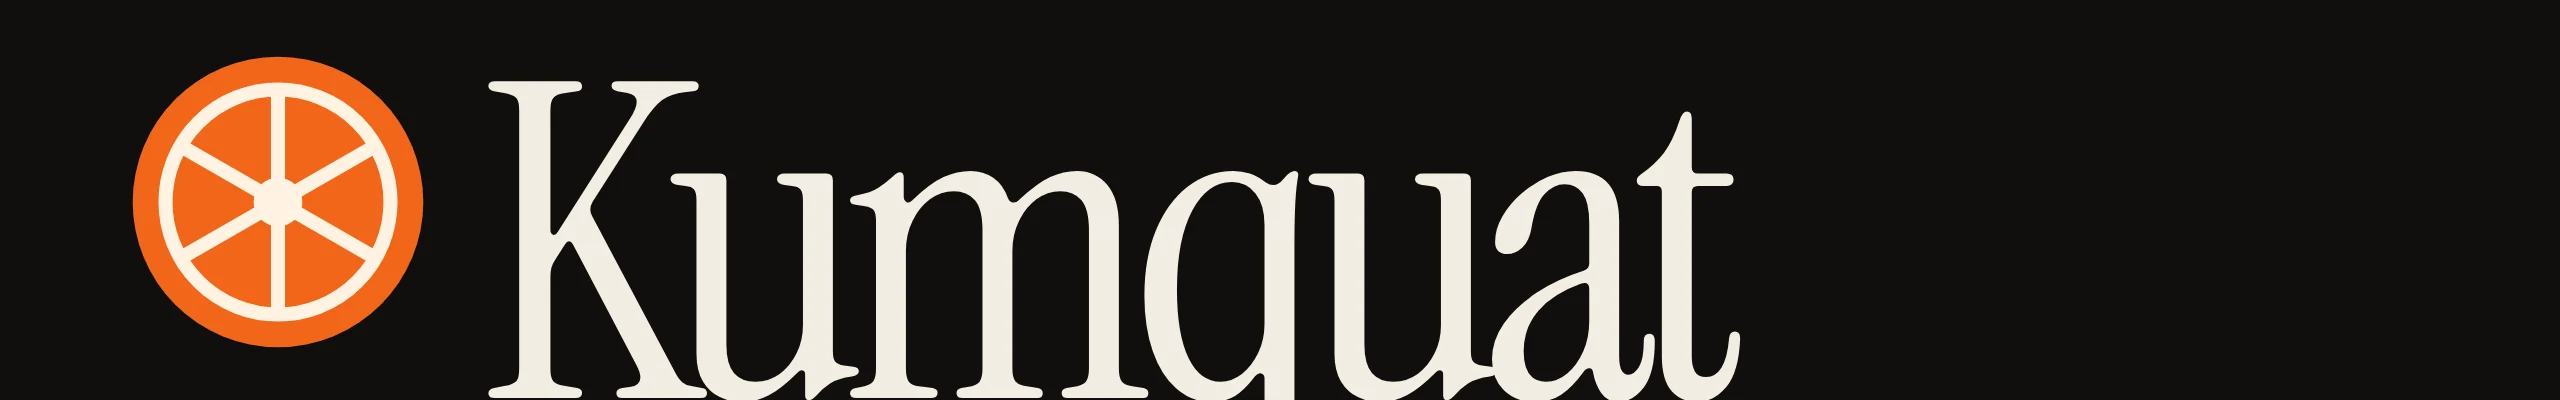
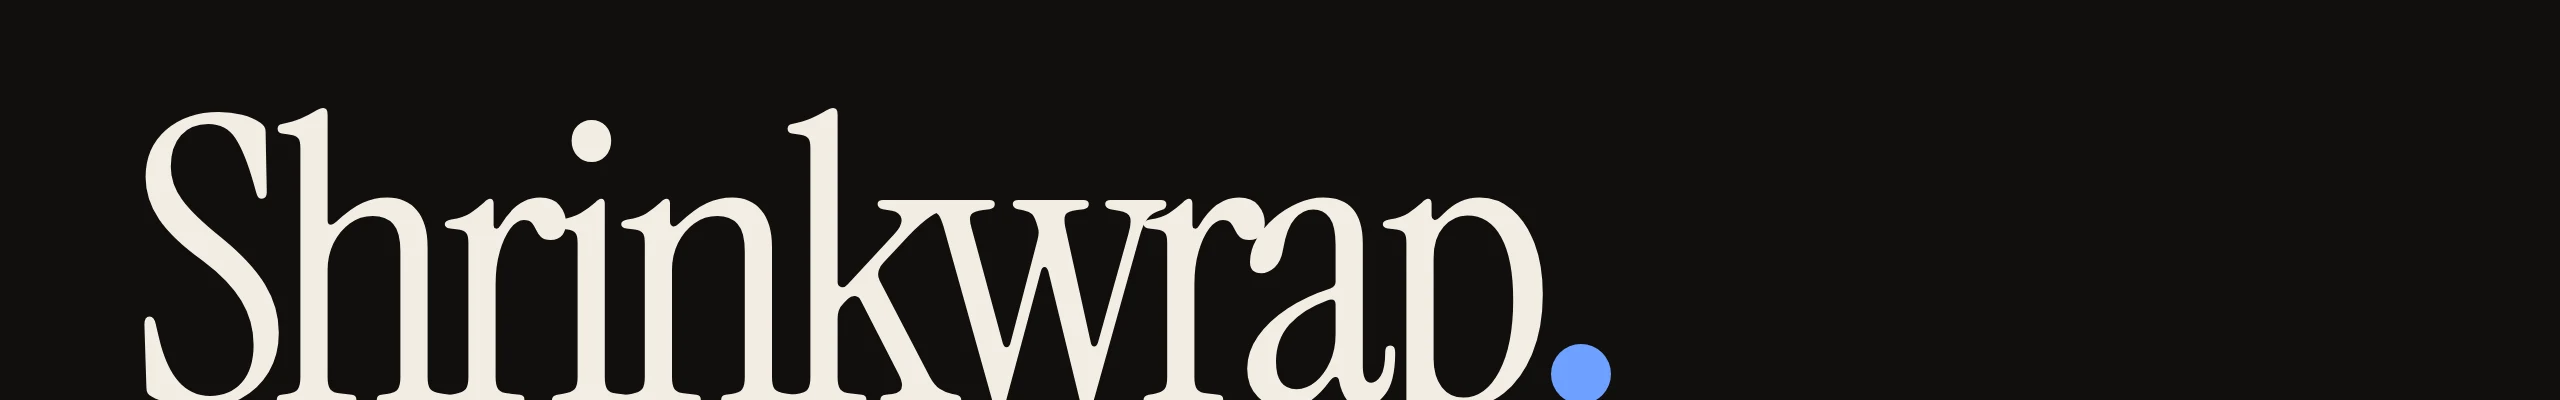
README·디자인 문서·OG·README 이미지를 새 이름으로 갱신

Changed region(s): [[0.0312, 0.12, 0.6875, 1.0]]

diff --git a/README.md b/README.md
@@ -1,17 +1,17 @@
 <a href="https://bbdyno.github.io/Kumquat-Page/en/">
   <picture>
     <source media="(prefers-color-scheme: dark)" srcset=".github/readme/hero-en-dark.webp">
-    <img src=".github/readme/hero-en-light.webp" alt="Kumquat. Drag, tap Shift, drop. A file converter and optimizer for Mac." width="100%">
+    <img src=".github/readme/hero-en-light.webp" alt="Shrinkwrap. Sized to fit where it’s going. Fit files to email, chat and form uploads on your Mac." width="100%">
   </picture>
 </a>
 
 <p align="center">
-  <a href="https://bbdyno.github.io/Kumquat-Page/"><img src="https://img.shields.io/badge/site-bbdyno.github.io%2FKumquat--Page-E8590C?style=for-the-badge&labelColor=171411" alt="Site"></a>
+  <a href="https://bbdyno.github.io/Kumquat-Page/"><img src="https://img.shields.io/badge/site-bbdyno.github.io%2FKumquat--Page-2B63D9?style=for-the-badge&labelColor=171411" alt="Site"></a>
   <a href="https://github.com/bbdyno/Kumquat-Page/actions/workflows/deploy.yml"><img src="https://img.shields.io/github/actions/workflow/status/bbdyno/Kumquat-Page/deploy.yml?branch=main&style=for-the-badge&labelColor=171411&label=pages" alt="Deploy status"></a>
-  <img src="https://img.shields.io/badge/npm%20dependencies-0-E8590C?style=for-the-badge&labelColor=171411" alt="Zero npm dependencies">
-  <img src="https://img.shields.io/badge/trackers-none-E8590C?style=for-the-badge&labelColor=171411" alt="No trackers">
-  <img src="https://img.shields.io/badge/node-20%2B-E8590C?style=for-the-badge&labelColor=171411&logo=nodedotjs&logoColor=white" alt="Node 20+">
-  <a href="LICENSE"><img src="https://img.shields.io/github/license/bbdyno/Kumquat-Page?style=for-the-badge&labelColor=171411&color=E8590C" alt="License"></a>
+  <img src="https://img.shields.io/badge/npm%20dependencies-0-2B63D9?style=for-the-badge&labelColor=171411" alt="Zero npm dependencies">
+  <img src="https://img.shields.io/badge/trackers-none-2B63D9?style=for-the-badge&labelColor=171411" alt="No trackers">
+  <img src="https://img.shields.io/badge/node-20%2B-2B63D9?style=for-the-badge&labelColor=171411&logo=nodedotjs&logoColor=white" alt="Node 20+">
+  <a href="LICENSE"><img src="https://img.shields.io/github/license/bbdyno/Kumquat-Page?style=for-the-badge&labelColor=171411&color=2B63D9" alt="License"></a>
 </p>
 
 <p align="center">
@@ -23,12 +23,12 @@
   <a href="https://bbdyno.github.io/Kumquat-Page/en/changelog/">Changelog</a>
 </p>
 
-<img src=".github/readme/band-en.webp" alt="10 first files with every feature free · 0 uploads and data collected · macOS 12 and up on Intel and Apple silicon · 5 free basic conversions a day" width="100%">
+<img src=".github/readme/band-en.webp" alt="7 destinations · 10 first files with every feature free · 0 uploads and data collected · macOS 12 and up on Intel and Apple silicon" width="100%">
 
-Marketing, legal, support and upload-guide pages for **Kumquat**, a macOS file converter. Korean is the default at the site root; English lives under `/en/`. Downloads are App Store campaign links only.
+Marketing, legal, support and upload-guide pages for **Shrinkwrap** (슈링크랩), a macOS app that fits files to where they’re going: email attachments, messengers, online forms, photo uploads and more. Korean is the default at the site root; English lives under `/en/`. Downloads are App Store campaign links only.
 
 > [!NOTE]
-> Kumquat 1.0.0 was submitted to the Mac App Store on 2026-10-20 and is in review. The App Store links start working once the app is public.
+> The app was renamed from its working title to Shrinkwrap on 2026-10-27 after App Review feedback (see `docs/REBRAND.md` in the app repo). Only user-facing names changed: this repository, the site URL (`/Kumquat-Page/`), the bundle ID and the App Store app ID stay the same. The App Store links start working once the app is public.
 
 ## The site
 
@@ -60,15 +60,15 @@ The screenshots follow your GitHub theme, the same way the site follows your sys
 | **Stack** | No framework and no npm dependencies. Page modules in `src/pages/` are rendered by `build.mjs` (Node 20+) into `dist/`. |
 | **Privacy** | No trackers, no cookies, no third-party font requests. |
 | **Type** | Instrument Serif and Noto Serif KR, self-hosted subsets in `public/assets/fonts/` (both OFL, licenses alongside). |
-| **Script** | One file, `assets/site.js` (theme toggle, scroll demo, before/after slider, format search). Every page works without it. |
-| **Design** | The visual direction and the Pinterest references it came from are in [`DESIGN.md`](DESIGN.md). |
+| **Script** | One file, `assets/site.js` (theme toggle, scroll demo, format search). Every page works without it. |
+| **Design** | The visual direction and the Pinterest references it came from are in [`DESIGN.md`](DESIGN.md). Accent: film blue `#2B63D9` (dark `#6EA0FF`). |
 
 ## Commands
 
 ```bash
 npm run build     # src/ + public/ → dist/ (also writes sitemap.xml and robots.txt)
 npm run preview   # build, then serve dist/ at http://localhost:4321/Kumquat-Page/
-npm run og        # re-render the placeholder OG images with headless Chrome
+npm run og        # re-render the OG images (wrapped-parcel art) with headless Chrome
 npm run readme-art # re-render the README banner, band, footer and site screenshots (needs cwebp)
 npm run fonts     # re-subset the serif fonts after heading copy changes (needs: pip install fonttools brotli)
 ```
@@ -77,7 +77,7 @@ Run `npm run build` before `npm run fonts`: the subsetter reads the Korean headi
 
 The preview server mounts the site under the same base path GitHub Pages uses, so relative links and `404.html` behave like production.
 
-`npm run readme-art` writes `.github/readme/*.webp`. Run `npm run build` first, because the site screenshots are taken from `dist/`. The Korean banner, band and footer are also used by the Kumquat app repo's README; copy `hero-ko-*.webp`, `band-ko.webp` and `footer-*.webp` to `Kumquat/.github/readme/` after re-rendering. The English banner uses the app's English captures in `.github/readme/src/` (from `Kumquat/AppStore/captures`).
+`npm run readme-art` writes `.github/readme/*.webp`. Run `npm run build` first, because the site screenshots are taken from `dist/`. The Korean banner, band and footer are also used by the app repo's README; copy `hero-ko-*.webp`, `band-ko.webp` and `footer-*.webp` to the app repo's `.github/readme/` after re-rendering. The English banner uses the app's English result-card capture in `.github/readme/src/` (from the app repo's `AppStore/captures`); it still shows the pre-rebrand UI.
 
 ## Pages
 
@@ -90,8 +90,9 @@ The preview server mounts the site under the same base path GitHub Pages uses, s
 | Press kit | `/press/` | `/en/press/` | `13-press.mjs` |
 | Changelog | `/changelog/` | `/en/changelog/` | `14-changelog.mjs` |
 | Guides index | `/guides/` | — | `20-guides.mjs` |
-| Hometax attachment size | `/guides/hometax-attachment-size/` | — | `21-guide-hometax.mjs` |
-| Gov24 ID photo | `/guides/gov24-id-photo/` | — | `22-guide-gov24-photo.mjs` |
+| Hometax attachment size (Online forms destination) | `/guides/hometax-attachment-size/` | — | `21-guide-hometax.mjs` |
+| Gov24 ID photo (Photo upload destination) | `/guides/gov24-id-photo/` | — | `22-guide-gov24-photo.mjs` |
+| Open source | `/opensource/` | `/en/opensource/` | `15-opensource.mjs` |
 | 404 | `/404.html` | — | `99-404.mjs` |
 
 Shared header, footer, `<head>` tags (canonical, hreflang, Open Graph) and building blocks are in `src/layout.mjs`. Site settings, prices and the App Store link builder are in `src/config.mjs`. The format table is generated from `src/data/formats.mjs`.
@@ -104,15 +105,15 @@ To add a guide: copy a guide module, give it a new `path`, and add it to `src/pa
 
 ## TODO before launch
 
-1. **App Store link.** `APP_ID` is `id6824821095` (1.0.0 submitted for review 2026-10-20). Links carry `mt=12` and a per-CTA `ct` campaign value (`home-hero`, `guide-hometax`, …); the provider token `pt` is left out until it is confirmed in App Store Connect. After approval, change the “출시 준비 중 / Coming soon” chip and the “in review” notes in `00-home.mjs`.
+1. **App Store link.** `APP_ID` is `id6824821095`. Links carry `mt=12` and a per-CTA `ct` campaign value (`home-hero`, `guide-hometax`, …); the provider token `pt` is left out until it is confirmed in App Store Connect. After approval, change the “출시 준비 중 / Coming soon” chip and the “in review” notes in `00-home.mjs`.
 2. **Support email.** `site.email` is `della.kimko@gmail.com`, the same support and ad-report address the app uses.
 3. **Site URL.** `site.url` assumes `https://bbdyno.github.io/Kumquat-Page/`. Change it if a custom domain is used; canonical, hreflang, OG and sitemap URLs follow it.
 4. **Legal review.** Privacy Policy and Terms are marked as drafts on the page. Set the effective dates (operator: bbdyno, 서울특별시 구로구, in `src/config.mjs`). The app uses Apple's Standard EULA as is (no custom EULA in App Store Connect), so the Terms only summarise it in §3 and must not restate license, warranty, liability or governing-law terms differently.
-5. **Guide facts.** Both guides tell readers to follow the limits shown on the upload screen. Confirm Hometax size limits and Gov24 photo file requirements, then add them with the date checked (see the TODO comments in each module).
-6. **Comparison table.** Tangerine facts were checked on 2026-10-20 (build 2.0.2). Re-check before publishing and after their updates; keep the date in `site.factsDate` current.
-7. **Placeholders.** App screens are real captures from the Kumquat repo (`docs/screens/`, development build 2026-10-20; `main-light` is the stats page and `main-dark` the history list, which only exists as a dark capture for now), converted to WebP in `public/assets/shots/` with light and dark versions; refresh them when the UI changes. Recipes, destinations, AI and HWP are labeled as planned (1.1–1.3) everywhere; drop the labels as each ships. No placeholder boxes or annotation labels remain on the site; facts a reader needs (demo data, comparison images) are plain captions.
-8. **App 1.0 scope.** Copy only presents what app 1.0 ships (wheel, menu bar drop, Finder Services, Shortcuts, main window with history and stats, conversions, target size 2 MB/1 MB and 10/25 MB for video, crop and rotate, copy as PNG/JPG, image quality setting, QR reading). Recipes, folder watching, destinations and presets, on-device AI, HWP, notch shelf, clipboard automation and the originals vault are labeled as planned. App Review can reject an app whose site or metadata promises more than it does.
-9. **Prices and free tier.** Prices mirror `Kumquat/docs/PLAN.md` §2. Free tier (decided 2026-10-20): every feature for the first `welcomeTrialFiles` (10) files, then `freeDailyFiles` (5) basic conversions a day, with ads; Pro has no limits and no ads. Both numbers live in `src/config.mjs`; the landing, terms, privacy, press and Hometax guide copy follow them.
+5. **Guide facts.** Both guides tell readers to follow the limits shown on the upload screen and say that Shrinkwrap's destination defaults (Online forms 5 MB, Photo upload 500 KB) are not official limits. Confirm Hometax size limits and Gov24 photo file requirements, then add them with the date checked (see the TODO comments in each module).
+6. **New captures.** Every file in `public/assets/shots/` still shows the pre-rebrand UI (old name, orange accent). Recapture from the Shrinkwrap build and drop them in under the same names; the list and intended content are in the comment above `shotSizes` in `src/layout.mjs`. The old app icon, welcome screen, drag-shortcut captures and promo video were removed; add the new app icon as `assets/img/app-icon.webp` and `app-icon-1024.png` and put it back in the press kit and final CTA (see the TODO in `13-press.mjs`).
+7. **App 1.0 scope.** Copy presents destinations (Email attachment 20 MB total split by file size, Messenger 25 MB, Small upload 10 MB, Online forms 5 MB, Photo upload 500 KB, Web images 500 KB WebP, Custom), the quality guard, text-preserving PDF compression, sending results to a new Mail message or Share, menu bar drop, Finder Quick Actions, Shortcuts, format conversions, history and stats. Recipes, folder watching, automatic destination detection, on-device AI and HWP are labeled as planned (changelog only). The optional drag shortcut (off by default in the app) is not marketed anywhere. App Review can reject an app whose site or metadata promises more than it does.
+8. **Prices and free tier.** Free: every feature for the first `welcomeTrialFiles` (10) files, then `freeDailyFiles` (5) basic conversions a day, with ads; destinations are Pro. Pro Lifetime $19.99 launch ($24.99 regular), Pro Yearly $11.99 with a 7-day trial. Both numbers live in `src/config.mjs`; the landing, terms, privacy, press and guide copy follow them.
+9. **Fonts.** Run `npm run fonts` after the copy changes so new Korean heading glyphs are in the Noto Serif KR subset.
 
 ## Sponsor ad list
 
@@ -128,29 +129,9 @@ The app downloads `/ads/v1.json` (source: `public/ads/v1.json`) about once a day
 }
 ```
 
-An empty `ads` array means no sponsors; the app then shows its own Kumquat Pro note. Update `updated` whenever the list changes.
-
-## Promo video
-
-The Korean landing page shows the app's promo motion graphic in “작동 방식” (the English page keeps the interactive demo). Source: `Kumquat/AppStore/promo/kumquat-promo-ko.mp4` (1080×1920, 17.5 s, no audio). The site copy is a 720×1280 re-encode plus a poster frame:
-
-```bash
-ffmpeg -i kumquat-promo-ko.mp4 -an -vf scale=720:1280:flags=lanczos -c:v libx264 -profile:v high -preset slow -crf 23 -pix_fmt yuv420p -movflags +faststart public/assets/video/promo-ko-720.mp4
-```
-
-It is muted, plays only while on screen, has a pause button, and does not autoplay for visitors who prefer reduced motion.
+An empty `ads` array means no sponsors; the app then shows its own Shrinkwrap Pro note. Update `updated` whenever the list changes.
 
 ## Credits
-
-Photos (Unsplash License, free for commercial use; credited as a courtesy):
-
-| File | Unsplash photo | Photographer |
-| --- | --- | --- |
-| `assets/img/hero-kumquats.webp`, OG images | [4rWiSnmX9uY](https://unsplash.com/photos/a-group-of-oranges-4rWiSnmX9uY) | @rens23 |
-| `assets/img/ai-bg-before.webp`, `ai-bg-after.webp` | [bcrmOZjw_V8](https://unsplash.com/photos/yellow-round-fruit-on-brown-plant-pot-bcrmOZjw_V8) | Gabriel Miklós (@gebgramm) |
-| `assets/img/ai-up-before.webp`, `ai-up-after.webp` | [_qQRpA_HnaI](https://unsplash.com/photos/a-bowl-filled-with-oranges-on-top-of-a-wooden-table-_qQRpA_HnaI) | Joanna Stołowicz (@joanna_stolowicz) |
-
-`ai-bg-after.webp` is a real background-removal result made on this Mac with Apple Vision (`VNGenerateForegroundInstanceMaskRequest`), the framework the app uses. `ai-up-before.webp` is the same crop reduced to 1/5 and enlarged again, to show the difference upscaling targets; it is labeled as a comparison, not as app output.
 
 Icons: [Phosphor Icons](https://phosphoricons.com) Light, MIT (`licenses/phosphor-icons-MIT.txt`), inlined by `src/icons.mjs`. Fonts: Instrument Serif and Noto Serif KR, SIL OFL 1.1 (`licenses/`).
 
@@ -159,6 +140,6 @@ Icons: [Phosphor Icons](https://phosphoricons.com) Light, MIT (`licenses/phospho
 <p align="center">
   <picture>
     <source media="(prefers-color-scheme: dark)" srcset=".github/readme/footer-dark.webp">
-    <img src=".github/readme/footer-light.webp" alt="Kumquat" width="100%">
+    <img src=".github/readme/footer-light.webp" alt="Shrinkwrap" width="100%">
   </picture>
 </p>

diff --git a/DESIGN.md b/DESIGN.md
@@ -1,22 +1,29 @@
 # Design direction
 
-Chosen on 2026-10-20 after reviewing about 140 Pinterest results (searches: "mac app landing page design", "premium app landing page orange", "minimal editorial software website", "bento grid app website light", "editorial serif app landing page", "warm cream minimal saas website orange accent", "citrus orange brand website minimal", "premium macos utility app website", "file converter app website design"). No single design was copied; these are the patterns the strongest results shared, and how Kumquat uses them.
+Chosen on 2026-10-20 after reviewing about 140 Pinterest results (searches: "mac app landing page design", "premium app landing page", "minimal editorial software website", "bento grid app website light", "editorial serif app landing page", "warm cream minimal saas website", "premium macos utility app website", "file converter app website design"). No single design was copied; these are the patterns the strongest results shared, and how the site uses them.
+
+On 2026-10-27 the app was renamed to Shrinkwrap and repositioned around destinations (“어디로 보내나요?”). The paper canvas, ink text and serif headings stayed; only the accent changed, from orange to film blue, and the brand symbol became a wrapped parcel.
+
+| Token | Light | Dark |
+| --- | --- | --- |
+| `--accent` | `#2B63D9` | `#6EA0FF` |
+| `--accent-ink` (text on canvas) | `#1D4BAE` | `#9CC0FF` |
 
 | Pattern seen in references | How the site applies it |
 | --- | --- |
 | Warm stone canvas instead of white or pure black; one or two lighter paper surfaces | `--bg #ece6dd`, `--paper #f6f2ec`; dark mode is warm near-black `#110f0d`, never cool grey |
-| Large editorial serif headline, left-aligned, one word emphasized (italic in Latin, color in Korean) | Instrument Serif / Noto Serif KR 500 for h1–h2; `<em>` is italic in English and orange in Korean |
-| Real photograph inside an arch-shaped frame with soft directional light | Hero arch holds a sunlit kumquat photo (Unsplash) with the real app's wheel and result thumbnail captures over it |
-| A small brand symbol next to the wordmark, echoed in the number band | Kumquat cross-section symbol (`mark` in `src/layout.mjs`) in the header, band, footer wordmark and favicon |
+| Large editorial serif headline, left-aligned, one word emphasized (italic in Latin, color in Korean) | Instrument Serif / Noto Serif KR 500 for h1–h2; `<em>` is italic in English and accent-colored in Korean |
+| A single illustration inside an arch-shaped frame with soft directional light | Hero arch holds the wrapped parcel (`parcelArt()` in `src/data/illustrations.mjs`) with real app captures (menu bar menu, result card) over it |
+| A small brand symbol next to the wordmark, echoed in the number band | Parcel in clear film with one blue band (`mark` in `src/layout.mjs`) in the header, band, final CTA and favicon; the wordmark is the serif name plus an accent dot, as in the app |
 | Thin-line icons in soft square tiles beside short feature text | Phosphor Light icons in `.feat-ico` / `.tile-ico` squares |
-| A real product UI next to a feature list | `#app` section: the real main window (stats in light mode, the history list in dark mode) with the real result thumbnail layered over it. Recipes, destinations and the originals vault are not shown because they do not exist yet |
-| A black band of big serif numbers under the hero | `.band` with four facts (10개, 0, 12+, 5개) |
-| Orange used for one CTA and one tile only, against neutrals | Orange pill CTA, one solid orange bento tile, the final CTA panel; everything else neutral |
-| Bento grid on cream with mixed tile sizes, one dark tile, one orange tile | `.bento`: destination (wide), recipe (tall), privacy (dark), HWP, Pro trial (orange) |
-| Editorial hairline lists and numbered steps instead of boxed cards | Steps 01–03, AI tab list, FAQ, tables and document TOCs all use 1px rules |
+| A real product UI next to a feature list | `#app` section: the real main window with the real result card layered over it |
+| A black band of big serif numbers under the hero | `.band` with four facts (7곳, 10개, 0, 12+) |
+| Accent used for one CTA and one tile only, against neutrals | Blue pill CTA, one solid blue bento tile, the final CTA panel; everything else neutral |
+| Bento grid on cream with mixed tile sizes, one dark tile, one accent tile | `.bento`: email total budget (wide), quality guard (tall), PDF, send, privacy (dark), anywhere, Pro trial (blue) |
+| Editorial hairline lists and numbered steps instead of boxed cards | Destination table, steps 01–03, FAQ, tables and document TOCs all use 1px rules |
 | Oversized wordmark in the footer | `.wordmark` |
 | Pill buttons with a circular arrow chip | `.btn .arrow` |
 
-Avoided on purpose: hand-drawn placeholder art where a real photo or a real result can be used, emoji and text-glyph icons (✓ → ↗) in the UI, centered hero over a radial glow, ruled "eyebrow" labels on every section, pill badges everywhere, uniform rounded card grids, gradient text. Those read as a generated template.
+Avoided on purpose: emoji and text-glyph icons in the UI, centered hero over a radial glow, all-caps labels, pill badges everywhere, uniform rounded card grids, gradient text, fruit or citrus imagery. Those read as a generated template or as the old brand.
 
-Reference pins (Pinterest image IDs) that shaped the decisions: `c40` Aurora workspace (stone, serif, arch, black stats band), `a20` saibi (serif hero, monochrome art, single orange CTA), `w02` / `w04` (cream and orange, orange numerals, left rule), `d64` (cream bento with one orange tile), `e04` / `e08` (editorial serif typography).
+Reference pins (Pinterest image IDs) that shaped the decisions: `c40` Aurora workspace (stone, serif, arch, black stats band), `a20` saibi (serif hero, monochrome art, single accent CTA), `w02` / `w04` (cream with one accent, accent numerals, left rule), `d64` (cream bento with one accent tile), `e04` / `e08` (editorial serif typography).
